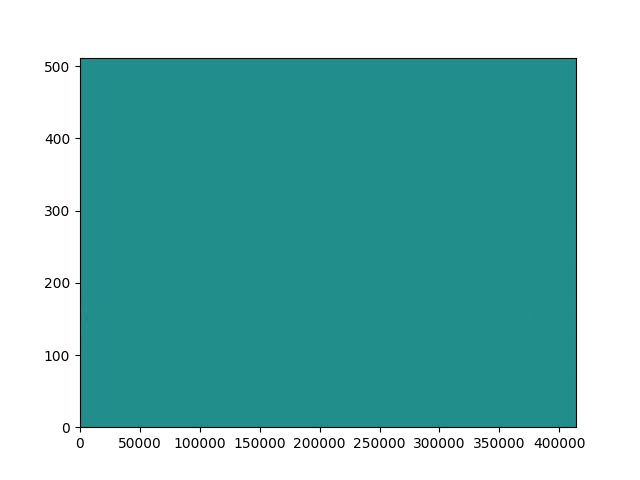
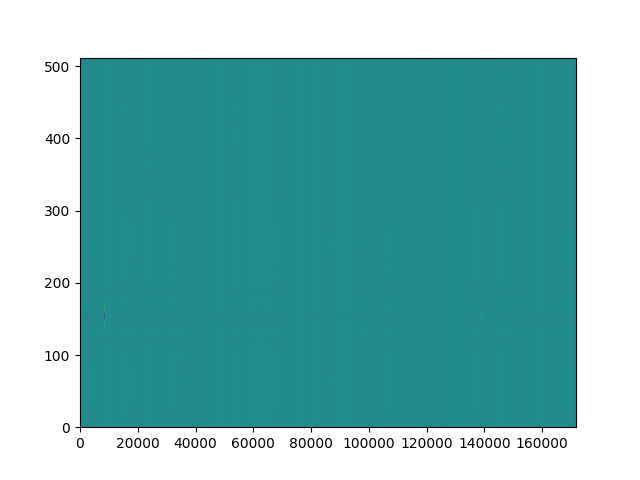
changed frequency mapping and changed data processing based on ss

Changed region(s): [[0.1875, 0.9062, 0.9062, 0.9375]]

diff --git a/commander3/todscripts/firas/src/temperature_map/main.py b/commander3/todscripts/firas/src/temperature_map/main.py
@@ -11,6 +11,10 @@ from my_utils import clean_ifg, ifg_to_spec, planck
 from utils.config import gen_nyquistl
 
 T_CMB = 2.72548  # Fixsen 2009
+# channels = ["rh", "rl", "lh", "ll"]
+channels = ["ll"]
+# modes = ["ss", "sf", "ls", "lf", "fs", "fl"]
+modes = ["ss"]
 
 sky_data = h5py.File(
     "/mn/stornext/u3/aimartin/d5/firas-reanalysis/Commander/commander3/todscripts/firas/data/sky_v4.1.h5",
@@ -22,10 +26,10 @@ sky_data = h5py.File(
 #     "r",
 # )
 
-print("parsing gmts")
-# getting the xcal data into their own variables
-gmts = np.array(sky_data["df_data/gmt"][()]).astype(str)
-gmt = pd.to_datetime(gmts).strftime("%Y-%m-%d %H:%M:%S").to_numpy()
+# print("parsing gmts")
+# # getting the xcal data into their own variables
+# gmts = np.array(sky_data["df_data/gmt"][()]).astype(str)
+# gmt = pd.to_datetime(gmts).strftime("%Y-%m-%d %H:%M:%S").to_numpy()
 
 print("other variables")
 # ical = np.array(sky_data["df_data/ical"][()])
@@ -34,21 +38,44 @@ b_ical = np.array(sky_data["df_data/b_ical"][()])
 # dihedral = np.array(sky_data["df_data/dihedral"][()])
 a_dihedral = np.array(sky_data["df_data/a_dihedral"][()])
 b_dihedral = np.array(sky_data["df_data/b_dihedral"][()])
-ifg_ll = np.array(sky_data["df_data/ifg_ll"])
-ifg_lh = np.array(sky_data["df_data/ifg_lh"][()])
-ifg_rl = np.array(sky_data["df_data/ifg_rl"][()])
-ifg_rh = np.array(sky_data["df_data/ifg_rh"][()])
 mtm_length = np.array(sky_data["df_data/mtm_length"][()])
 mtm_speed = np.array(sky_data["df_data/mtm_speed"][()])
-bol_cmd_bias_ll = np.array(sky_data["df_data/bol_cmd_bias_ll"][()])
-bol_volt_ll = np.array(sky_data["df_data/bol_volt_ll"][()])
-adds_per_group_ll = np.array(sky_data["df_data/adds_per_group_ll"][()])
-gain_ll = np.array(sky_data["df_data/gain_ll"][()])
-sweeps_ll = np.array(sky_data["df_data/sweeps_ll"][()])
+
+ifg = {}
+bol_cmd_bias = {}
+bol_volt = {}
+adds_per_group = {}
+gain = {}
+sweeps = {}
+for channel in channels:
+    ifg[channel] = np.array(sky_data["df_data/ifg_" + channel])
+    bol_cmd_bias[channel] = np.array(sky_data["df_data/bol_cmd_bias_" + channel])
+    bol_volt[channel] = np.array(sky_data["df_data/bol_volt_" + channel])
+    adds_per_group[channel] = np.array(sky_data["df_data/adds_per_group_" + channel])
+    gain[channel] = np.array(sky_data["df_data/gain_" + channel])
+    sweeps[channel] = np.array(sky_data["df_data/sweeps_" + channel])
 
 sky_data.close()
 
-print("data loaded")
+# using only ss data for now to test
+# make filter with true/false where mtm_length and mtm_speed are 0
+short_filter = mtm_length == 0
+slow_filter = mtm_speed == 0
+
+a_ical = a_ical[short_filter & slow_filter]
+b_ical = b_ical[short_filter & slow_filter]
+a_dihedral = a_dihedral[short_filter & slow_filter]
+b_dihedral = b_dihedral[short_filter & slow_filter]
+mtm_length = mtm_length[short_filter & slow_filter]
+mtm_speed = mtm_speed[short_filter & slow_filter]
+ifg["ll"] = ifg["ll"][short_filter & slow_filter]
+bol_cmd_bias["ll"] = bol_cmd_bias["ll"][short_filter & slow_filter]
+bol_volt["ll"] = bol_volt["ll"][short_filter & slow_filter]
+adds_per_group["ll"] = adds_per_group["ll"][short_filter & slow_filter]
+gain["ll"] = gain["ll"][short_filter & slow_filter]
+sweeps["ll"] = sweeps["ll"][short_filter & slow_filter]
+
+print(f"data loaded: {len(ifg['ll'])}")
 
 fits_data = fits.open(
     "/mn/stornext/u3/aimartin/d5/firas-reanalysis/Commander/commander3/todscripts/firas/reference/FIRAS_CALIBRATION_MODEL_LLSS.FITS"
@@ -77,46 +104,46 @@ G1 = fits_data[1].data["BOLPARM3"][0]
 beta = fits_data[1].data["BOLPARM4"][0]
 
 # plot ifgs over time
-plt.imshow(ifg_ll.T, aspect="auto", extent=[0, len(ifg_ll), 0, len(ifg_ll[0])])
+plt.imshow(ifg["ll"].T, aspect="auto", extent=[0, len(ifg["ll"]), 0, len(ifg["ll"][0])])
 plt.savefig("../../output/plots/ifg_over_time.png")
 plt.clf()
 
 # plot random ifg
-plt.plot(ifg_ll[np.random.randint(0, len(ifg_ll))])
+plt.plot(ifg["ll"][np.random.randint(0, len(ifg["ll"]))])
 plt.savefig("../../output/plots/random_ifg.png")
 plt.clf()
 
 print("cleaning interferograms")
 
-ifg = clean_ifg(
-    ifg=ifg_ll,
+ifg["ll"] = clean_ifg(
+    ifg=ifg["ll"],
     mtm_length=mtm_length,
     mtm_speed=mtm_speed,
     channel=3,
-    adds_per_group=adds_per_group_ll,
-    gain=gain_ll,
-    sweeps=sweeps_ll,
+    adds_per_group=adds_per_group["ll"],
+    gain=gain["ll"],
+    sweeps=sweeps["ll"],
 )
 
 # plot cleaned ifgs
-plt.imshow(ifg.T, aspect="auto", extent=[0, len(ifg), 0, len(ifg[0])])
+plt.imshow(ifg["ll"].T, aspect="auto", extent=[0, len(ifg["ll"]), 0, len(ifg["ll"][0])])
 plt.savefig("../../output/plots/cleaned_ifg_over_time.png")
 plt.clf()
 
 # check if nans in ifgs
-if np.isnan(ifg).any():
+if np.isnan(ifg["ll"]).any():
     print("Nans in interferograms")
-    print(ifg[np.isnan(ifg)])
+    print(ifg["ll"][np.isnan(ifg["ll"])])
 
 print("converting interferograms to spectra")
 
 spec = ifg_to_spec(
-    ifg,
+    ifg["ll"],
     mtm_speed,
     channel,
-    adds_per_group_ll,
-    bol_cmd_bias_ll,
-    bol_volt_ll,
+    adds_per_group["ll"],
+    bol_cmd_bias["ll"],
+    bol_volt["ll"],
     fnyq["icm"][frec],
     fnyq["hz"][frec],
     otf,

diff --git a/commander3/todscripts/firas/src/temperature_map/plot_map.py b/commander3/todscripts/firas/src/temperature_map/plot_map.py
@@ -22,11 +22,18 @@ data = h5py.File(
 
 pix_gal = np.array(data["df_data/pix_gal"]).astype(int)
 # pix_terr = np.array(data["df_data/pix_terr"]).astype(int)
+mtm_length = np.array(data["df_data/mtm_length"][()])
+mtm_speed = np.array(data["df_data/mtm_speed"][()])
+
+short_filter = mtm_length == 0
+slow_filter = mtm_speed == 0
+pix_gal = pix_gal[short_filter & slow_filter]
 
 # to not use ICAL higher than 3
 a_ical = np.array(data["df_data/a_ical"][()])
 b_ical = np.array(data["df_data/b_ical"][()])
 ical = (a_ical + b_ical) / 2
+ical = ical[short_filter & slow_filter]
 ical_lower_3 = ical < 3
 pix_gal = pix_gal[ical_lower_3]
 # pix_terr = pix_terr[ical_lower_3]
@@ -41,9 +48,12 @@ scan_mode = 0  # SS
 channel = 3  # LL
 frec = 4 * (channel % 2) + scan_mode
 
-f_icm = np.arange(len(sky[0])) * (fnyq["icm"][frec] / 320) + 1
+f_icm = np.arange(len(sky[0])) * (fnyq["icm"][frec] / 320)
 c = 3e8 * 1e2  # cm/s
-f_ghz = f_icm * c * 1e-9
+f_ghz = (
+    f_icm * c * 1e-9 + 55
+)  # this might not be right but it is what matches the initial frequencies of the firas movie
+
 
 NSIDE = 32
 npix = hp.nside2npix(NSIDE)
@@ -69,12 +79,12 @@ m[mask] = hp.UNSEEN
 for freq in range(len(f_ghz)):
     hp.mollview(
         m[:, freq],
-        # coord="G",
+        coord="G",
         title=f"{int(f_ghz[freq]):04d} GHz",
         unit="MJy/sr",
-        norm="hist",
-        # min=0,
-        # max=500,
+        # norm="hist",
+        min=0,
+        max=500,
     )
     # hp.graticule(coord="G")
     plt.savefig(f"../../output/maps/sky_map/{int(f_ghz[freq]):04d}.png")
@@ -95,12 +105,12 @@ print(temps)
 
 hp.mollview(
     temps,
-    # coord="G",
+    coord="G",
     title="Temperature map",
     unit="K",
-    norm="hist",
-    # min=2.7,
-    # max=2.8,
+    # norm="hist",
+    min=2.7,
+    max=2.8,
 )
 plt.savefig("../../output/maps/temperature_map.png")
 plt.close()

diff --git a/commander3/todscripts/firas/src/temperature_map/firas_curve.py b/commander3/todscripts/firas/src/temperature_map/firas_curve.py
@@ -20,11 +20,18 @@ mask = fits.open("BP_CMB_I_analysis_mask_n1024_v2.fits")
 mask = mask[1].data.astype(int)
 
 pix_gal = np.array(data["df_data/pix_gal"]).astype(int)
+mtm_length = np.array(data["df_data/mtm_length"][()])
+mtm_speed = np.array(data["df_data/mtm_speed"][()])
+
+short_filter = mtm_length == 0
+slow_filter = mtm_speed == 0
+pix_gal = pix_gal[short_filter & slow_filter]
 
 # to not use ICAL higher than 3 temps
 a_ical = np.array(data["df_data/a_ical"][()])
 b_ical = np.array(data["df_data/b_ical"][()])
 ical = (a_ical + b_ical) / 2
+ical = ical[short_filter & slow_filter]
 ical_lower_3 = ical < 3
 pix_gal = pix_gal[ical_lower_3]
 sky = sky[ical_lower_3]
@@ -38,9 +45,11 @@ scan_mode = 0  # SS
 channel = 3  # LL
 frec = 4 * (channel % 2) + scan_mode
 
-f_icm = np.arange(len(sky[0])) * (fnyq["icm"][frec] / 320) + 1
+f_icm = np.arange(len(sky[0])) * (fnyq["icm"][frec] / 320)
 c = 3e8 * 1e2  # cm/s
-f_ghz = f_icm * c * 1e-9
+f_ghz = (
+    f_icm * c * 1e-9 + 55
+)  # this might not be right but it is what matches the initial frequencies of the firas movie
 
 NSIDE = 32
 npix = hp.nside2npix(NSIDE)
@@ -85,4 +94,3 @@ plt.ylabel("Brightness [MJy/sr]")
 plt.title("BB curve")
 plt.legend()
 plt.savefig("../../output/plots/bb_curve.png")
-plt.show()
